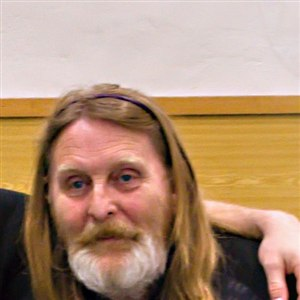
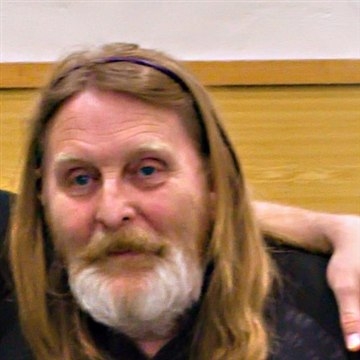
Vycentrovat obličej v avataru, zvětšit kolečko, upravit roli
Kopřiva Jiří je teď "Vedoucí a hlavní trenér klubu" místo
"org. pracovník klubu".

diff --git a/index.html b/index.html
@@ -653,7 +653,7 @@ nav.top a:hover{color:var(--ball)}
 .ccard a{text-decoration-color:var(--ball);text-decoration-thickness:2px;text-underline-offset:3px}
 .ccard a:hover{color:var(--ball)}
 .kontakt-osoba{display:flex;align-items:center;gap:14px;margin-bottom:14px}
-.kontakt-osoba .avatar{width:56px;height:56px;border-radius:50%;object-fit:cover;flex:0 0 auto;border:2px solid var(--line)}
+.kontakt-osoba .avatar{width:72px;height:72px;border-radius:50%;object-fit:cover;flex:0 0 auto;border:2px solid var(--line)}
 .kontakt-osoba div{line-height:1.4}
 .kontakt-osoba b{font-family:var(--f-display);font-size:1.06rem}
 .kontakt-osoba .kontakt-role{font-size:.82rem;color:var(--muted);font-weight:500}
@@ -897,7 +897,7 @@ footer b{color:var(--paper)}
       <dl class="ccard"><dt>Kontakt</dt><dd>
         <div class="kontakt-osoba">
           <img src="img/kopriva-jiri.jpg" alt="Kopřiva Jiří" class="avatar">
-          <div><b>Kopřiva Jiří</b><br><span class="kontakt-role">org. pracovník klubu · Kód ČAST: 202028</span></div>
+          <div><b>Kopřiva Jiří</b><br><span class="kontakt-role">Vedoucí a hlavní trenér klubu · Kód ČAST: 202028</span></div>
         </div>
         <a href="tel:+420603445168">603 445 168</a><br>
         <a href="mailto:kopriva.ping@seznam.cz">kopriva.ping@seznam.cz</a><br>
